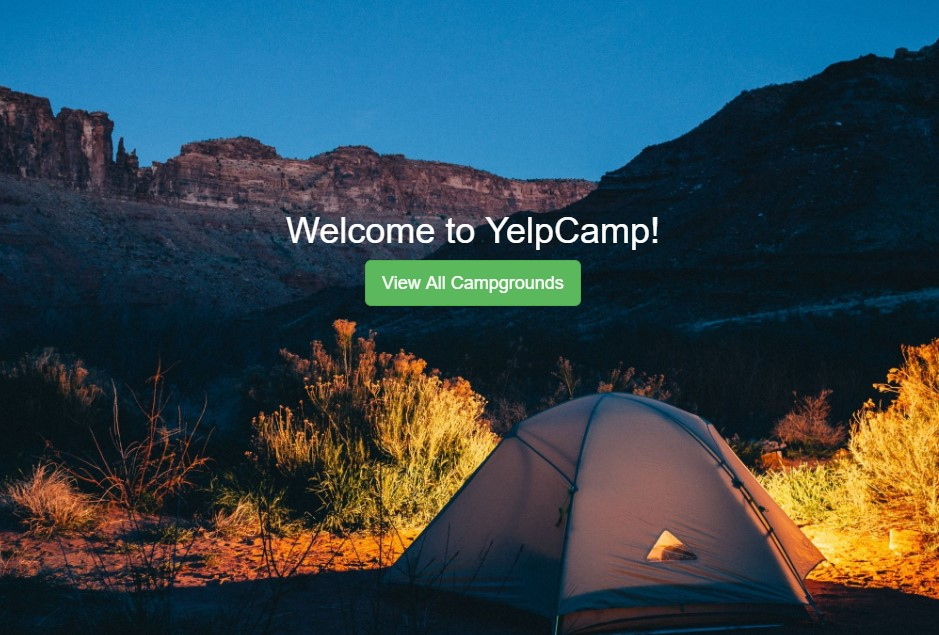
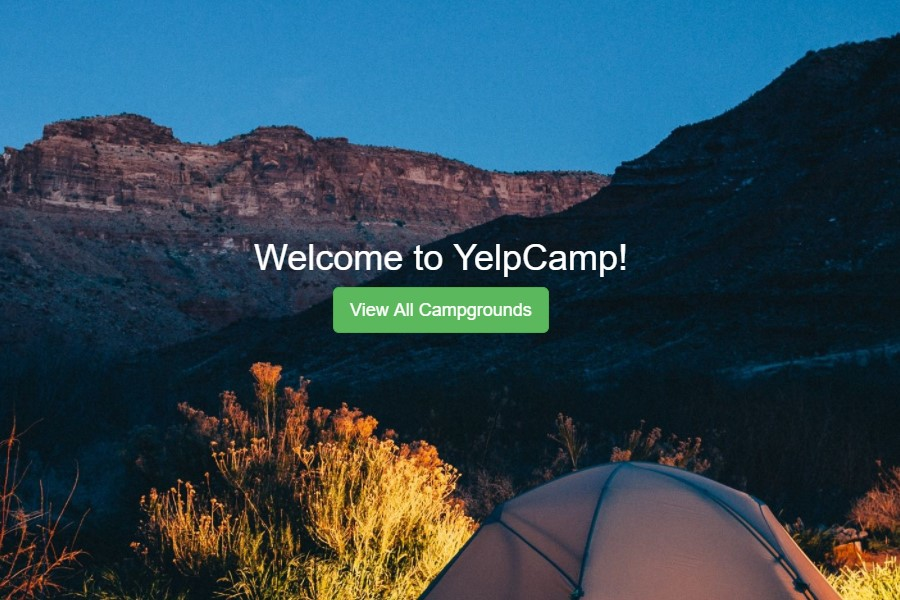
About section done, working on Project section

diff --git a/public/css/styles.css b/public/css/styles.css
@@ -68,11 +68,15 @@ section {
     display: flex;
     flex-direction: column;
     align-items: center;
-    padding: 100px 80px;
+    padding: 100px 40px;
 }
 
 section:not(.hero):nth-child(even) {
     background-color: var(--sec-light)
+}
+
+section:not(.hero):nth-child(odd) {
+    background-color: var(--sec-dark)
 }
 
 .grid {
@@ -167,7 +171,7 @@ header nav li {
 }
 
 .hero .background-image {
-    position: absolute;
+    position: fixed;
     top: 0;
     left: 0;
     width: 100%;
@@ -212,13 +216,19 @@ header nav li {
 
 .iconGrid{
     display: flex;
-    justify-content: space-between;
+    flex-wrap: wrap;
+    justify-content: space-around;
 }
 
 .iconGrid .icons {
-    width: 50px;
-    height: 50px;
-    
+    width: 60px;
+    height: 60px;
+    padding: 10px;  
+    transition: transform .5s;
+}
+
+.iconGrid .icons:hover {
+    transform: scale(2);
 }
 
 @keyframes slideFade {
@@ -245,35 +255,38 @@ header nav li {
 
 /* Destinations Section */
 
-.destinations .grid li {
-    height: 350px;
+/* .destinations .grid li {
+    /* height: 500px; */
     padding: 20px;
     background-clip: content-box;
     background-size: cover;
     background-position: center;
+    flex-basis: 50%;
 }
 
-.destinations .grid li.small {
-    flex-basis: 30%;
+/* .destinations .grid li.small {
+    flex-basis: 50%;
 }
 
 .destinations .grid li.large {
-    flex-basis: 70%;
+    flex-basis: 50%; */
+}
+.destinations p {
+    text-align: justify;
 }
 
-@media (max-width: 1100px) {
+/* @media (max-width: 1100px) {
     .destinations .grid li.small,
     .destinations .grid li.large {
         flex-basis: 50%;
     }
-}
+} */
 
-@media (max-width: 800px) {
-    .destinations .grid li.small,
-    .destinations .grid li.large {
+@media (max-width: 1100px) {
+    .destinations .grid li {
         flex-basis: 100%;
     }
-}
+} 
 
 /* Packages Section */
 
@@ -285,6 +298,13 @@ header nav li {
 
 .packages .grid li i {
     color: var(--main-dark);
+}
+
+.packages .grid li img {
+    width: 400px;
+    border-radius: 20px;
+    box-shadow: 0 4px 8px 0 rgba(0, 0, 0, 0.5), 
+                0 6px 20px 0 rgba(0, 0, 0, 1);
 }
 
 .packages .grid li h4{
@@ -335,6 +355,8 @@ header nav li {
 .contact form .btn {
     padding: 18px 42px
 }
+
+
 
 .contact form input {
     padding: 15px;
@@ -390,3 +412,62 @@ footer p {
     footer ul li {
         margin: 0 8px;    }
 }
+
+
+.leia {
+    display: inline-flex;
+    align-self: center;
+    position: relative;
+    height: 1.2em;
+    width: 1.2em;
+    bottom: -0.2em;
+    transition: transform .8s;
+}
+
+.leia:hover {
+    transform: scale(5);
+}
+
+.about{
+    display: flex;
+    flex-wrap: wrap;
+    width: 100%;
+}
+
+.aboutText {
+    flex: 2 1 50%;
+}
+.aboutText p {
+    text-align: justify;
+    max-width: 100%;
+}
+.aboutImg {
+    /* border: 5px solid red; */
+    flex: 1 1 20%;
+    margin: 20px;
+    /* width: 20%; */
+}
+.aboutImg img {
+    width: 100%;
+    object-fit: fill;
+    flex: 2 1 200px;
+    align-items: center;
+    border-radius: 30px;
+    box-shadow: 0 4px 8px 0 rgba(0, 0, 0, 0.5), 
+                0 6px 20px 0 rgba(0, 0, 0, 1);
+}
+
+.back {
+    order: 1;
+}
+ .flex {
+     flex: 1 1 200px;
+     width: 20%;
+ }
+
+ @media (max-width: 1136px) {
+     .back {
+         order: 0;
+     }
+ }
+  

diff --git a/routes/projects.js b/routes/projects.js
@@ -30,6 +30,10 @@ router.post("/", function(req, res){
     })
 })
 
+router.get("/clock", function(req, res){
+    res.render("projects/clock");
+});
+
 // Show Route
 router.get("/:id", function(req, res){
     Project.findById(req.params.id, function(err, foundProject){
@@ -77,5 +81,7 @@ router.delete("/:id", function(req, res) {
         }
     });
 });
+
+
 
 module.exports = router;
